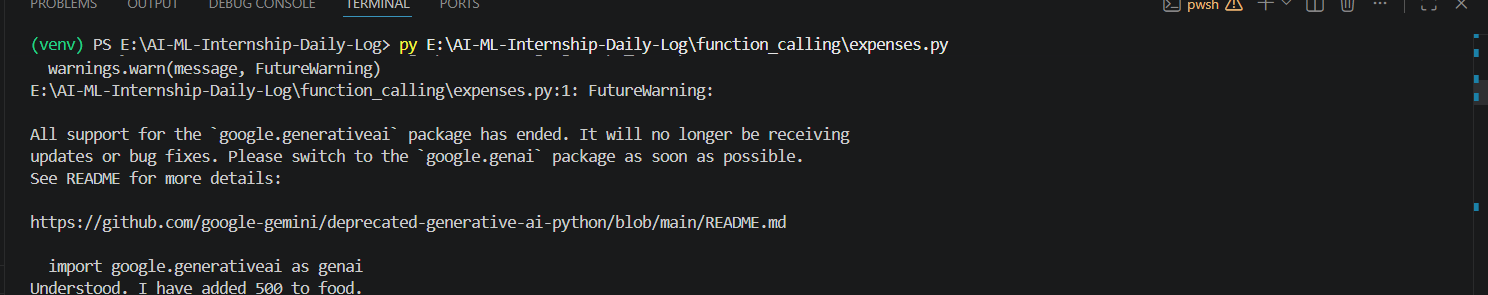
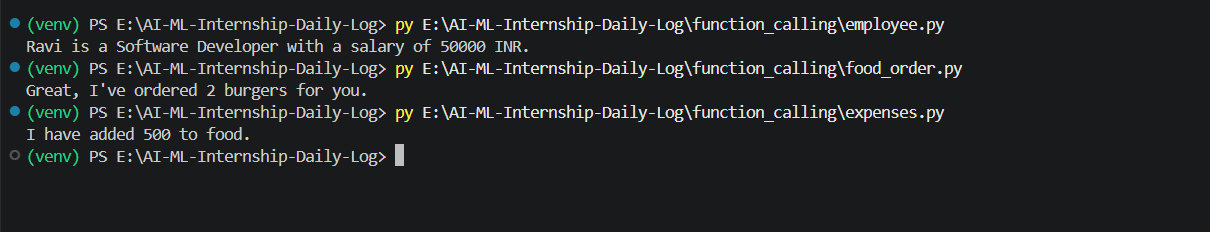
add use case

diff --git a/function_calling/employee.py b/function_calling/employee.py
@@ -1,0 +1,56 @@
+from google import genai
+from dotenv import load_dotenv
+import os
+
+load_dotenv()
+
+client = genai.Client(api_key=os.getenv("GEMINI_API_KEY"))
+
+employees = {
+    "Ravi": "Ravi - Software Developer - Salary: 50000 INR",
+    "Amit": "Amit - Data Analyst - Salary: 45000 INR",
+    "Neha": "Neha - UI Designer - Salary: 40000 INR"
+}
+
+def get_employee(name: str):
+    return employees.get(name, "Employee not found")
+
+tools = [get_employee]
+
+user_input = "Show details of employee Ravi"
+# user_input = input("Enter query: ")
+
+response = client.models.generate_content(
+    model="gemini-2.5-flash",
+    contents=user_input,
+    config={
+        "tools": tools
+    }
+)
+
+part = response.candidates[0].content.parts[0]
+
+if hasattr(part, "function_call") and part.function_call:
+    fc = part.function_call
+
+    result = get_employee(fc.args["name"])
+
+    final_response = client.models.generate_content(
+        model="gemini-2.5-flash",
+        contents=[
+            user_input,
+            {
+                "function_response": {
+                    "name": fc.name,
+                    "response": {
+                        "result": result
+                    }
+                }
+            }
+        ]
+    )
+
+    print(final_response.text)
+
+else:
+    print(response.text)

diff --git a/function_calling/food_order.py b/function_calling/food_order.py
@@ -1,0 +1,53 @@
+from google import genai
+from dotenv import load_dotenv
+import os
+
+load_dotenv()
+
+client = genai.Client(api_key=os.getenv("GEMINI_API_KEY"))
+
+orders = []
+
+def order_food(item: str, quantity: int):
+    orders.append({"item": item, "quantity": quantity})
+    return f"{quantity} {item}(s) ordered successfully!"
+
+tools = [order_food]
+
+user_input = "I want to order 2 burgers"
+# user_input = input("Enter your order: ")
+
+response = client.models.generate_content(
+    model="gemini-2.5-flash",
+    contents=user_input,
+    config={
+        "tools": tools
+    }
+)
+
+part = response.candidates[0].content.parts[0]
+
+if hasattr(part, "function_call") and part.function_call:
+    fc = part.function_call
+
+    result = order_food(fc.args["item"], fc.args["quantity"])
+
+    final_response = client.models.generate_content(
+        model="gemini-2.5-flash",
+        contents=[
+            user_input,
+            {
+                "function_response": {
+                    "name": fc.name,
+                    "response": {
+                        "result": result
+                    }
+                }
+            }
+        ]
+    )
+
+    print(final_response.text)
+
+else:
+    print(response.text)
